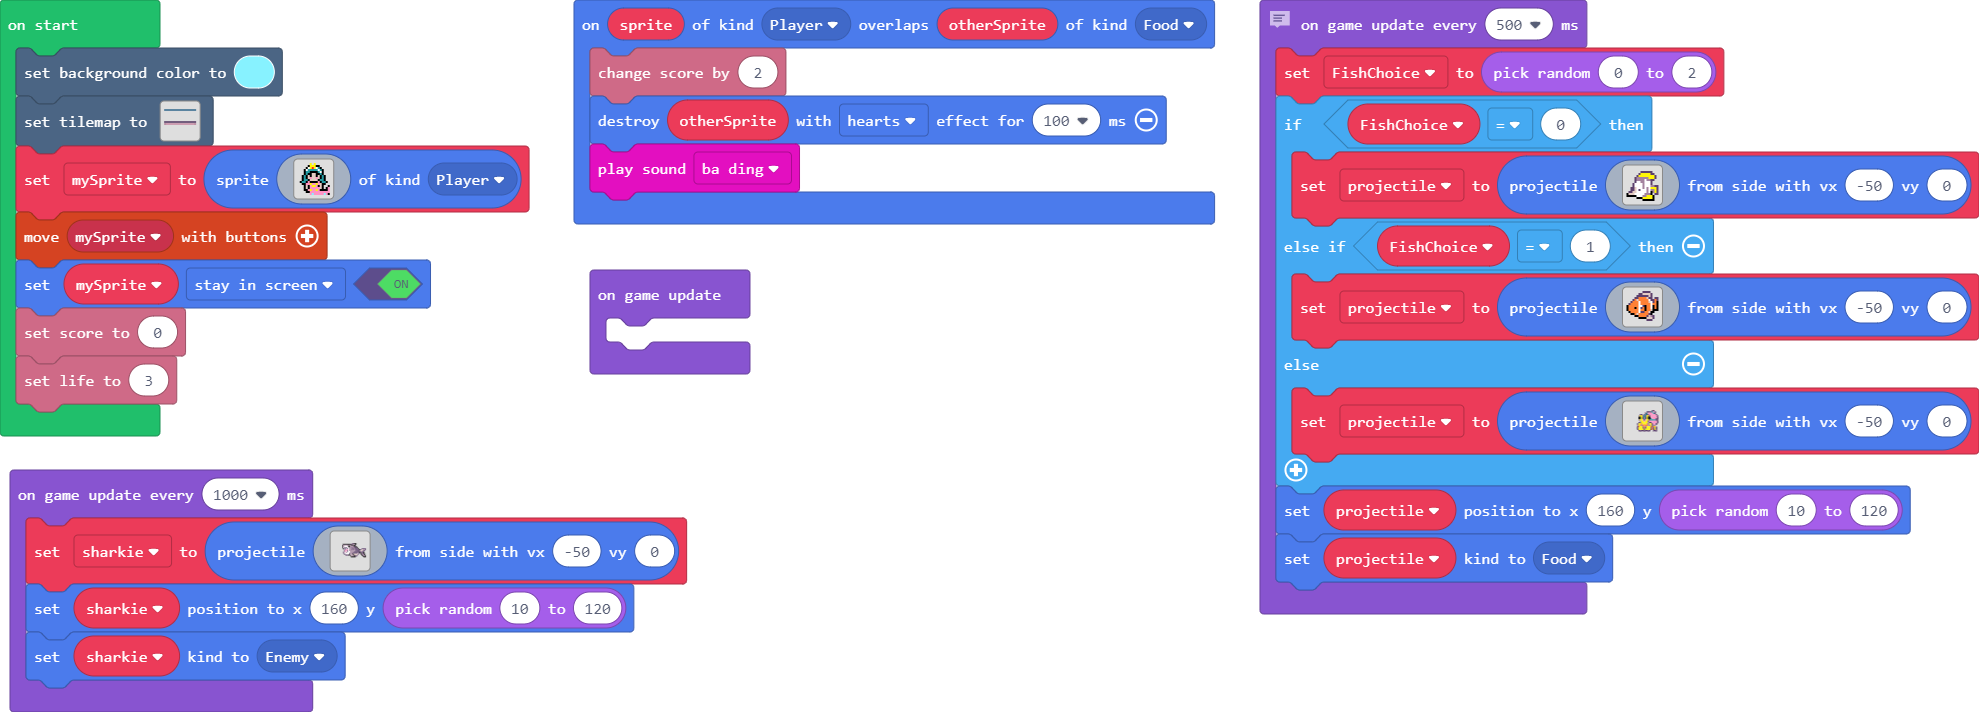
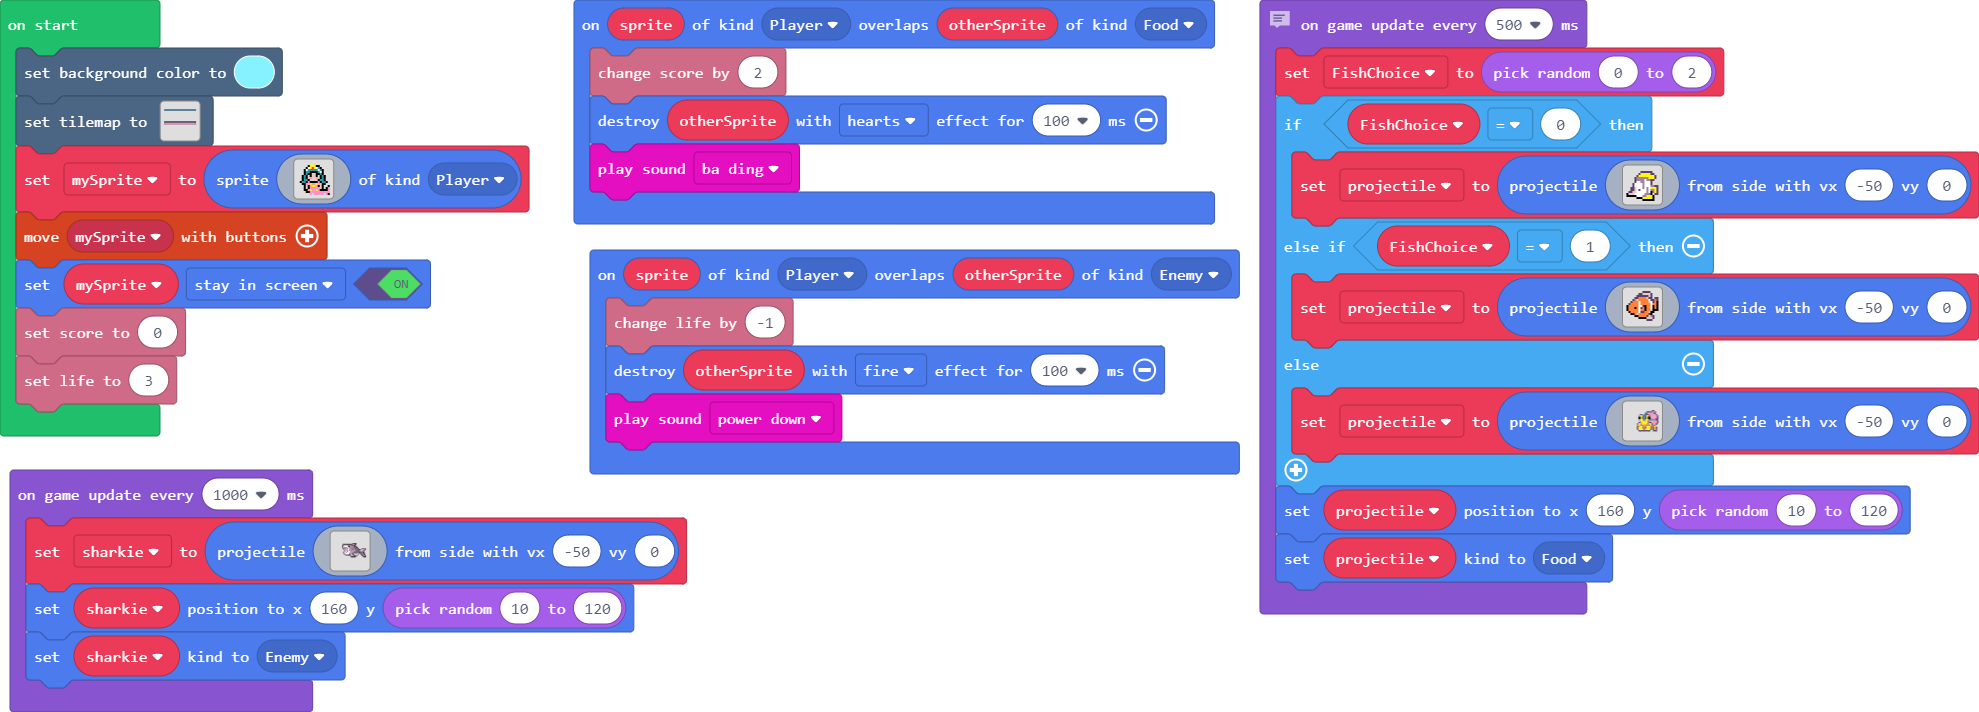
This is a new change

Changed region(s): [[0.2774, 0.3399, 0.6473, 0.6798]]

diff --git a/main.ts b/main.ts
@@ -43,6 +43,11 @@ sprites.onOverlap(SpriteKind.Player, SpriteKind.Food, function (sprite, otherSpr
     otherSprite.destroy(effects.hearts, 100)
     music.baDing.play()
 })
+sprites.onOverlap(SpriteKind.Player, SpriteKind.Enemy, function (sprite, otherSprite) {
+    info.changeLifeBy(-1)
+    otherSprite.destroy(effects.fire, 100)
+    music.powerDown.play()
+})
 let sharkie: Sprite = null
 let projectile: Sprite = null
 let FishChoice = 0
@@ -88,9 +93,6 @@ controller.moveSprite(mySprite)
 mySprite.setFlag(SpriteFlag.StayInScreen, true)
 info.setScore(0)
 info.setLife(3)
-game.onUpdate(function () {
-	
-})
 // every half a second spawn a fish
 game.onUpdateInterval(500, function () {
     FishChoice = Math.randomRange(0, 2)
